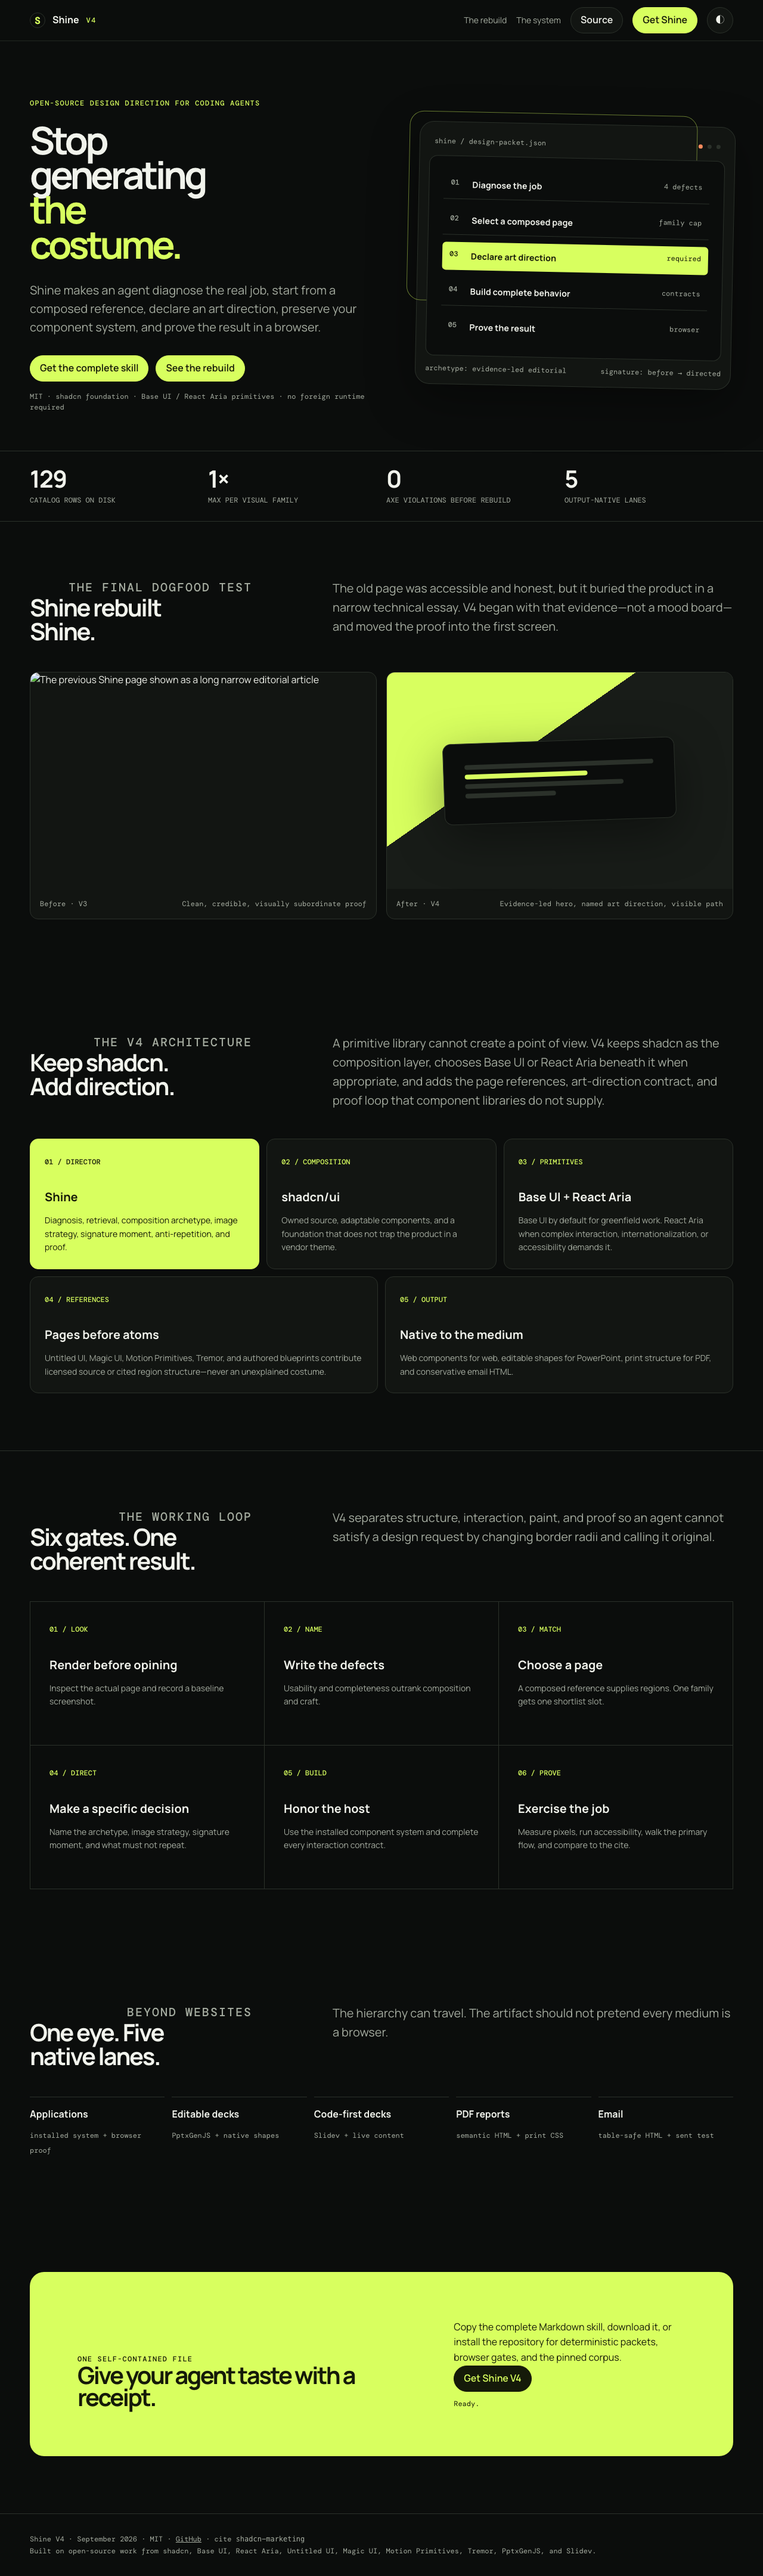
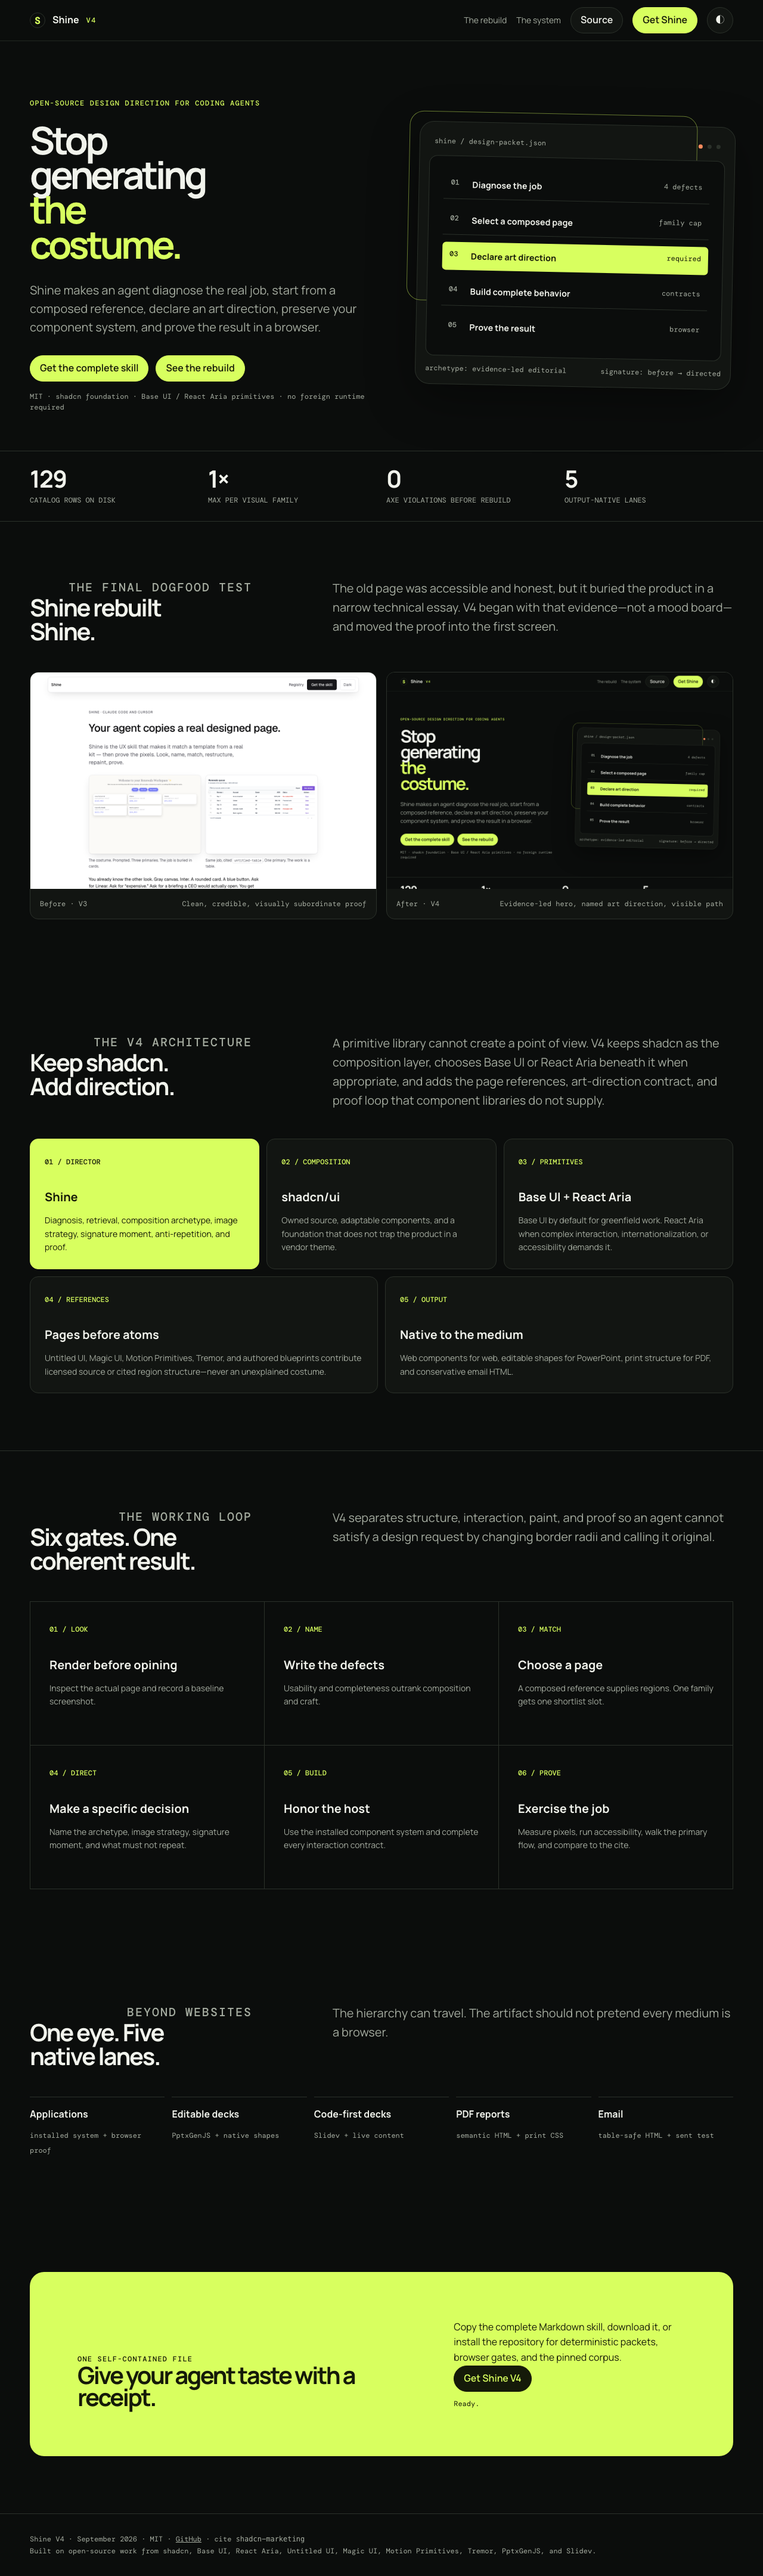
Replace placeholder rebuild proof with matched screenshots

Changed region(s): [[0.0312, 0.2499, 0.9375, 0.3437]]

diff --git a/site/index.html b/site/index.html
@@ -18,13 +18,13 @@
 .hero{padding:clamp(72px,10vw,140px) 0 var(--s8)}.hero-grid{display:grid;grid-template-columns:minmax(0,1.05fr) minmax(380px,.95fr);gap:clamp(36px,7vw,90px);align-items:center}.eyebrow,.label{font:500 .75rem/1.4 var(--mono);letter-spacing:.1em;text-transform:uppercase;color:var(--acid)}h1,h2,h3,p{margin-top:0}h1{font-size:clamp(3.2rem,7.8vw,7.4rem);line-height:.91;letter-spacing:-.075em;margin:.3em 0 .32em;max-width:8ch}h1 em{font-style:normal;color:var(--acid)}.lede{font-size:clamp(1.08rem,1.7vw,1.35rem);line-height:1.55;color:var(--muted);max-width:38rem}.actions{display:flex;gap:var(--s3);flex-wrap:wrap;margin-top:var(--s6)}.micro{margin-top:var(--s4);font:400 .75rem/1.5 var(--mono);color:var(--muted)}
 .director{position:relative;background:var(--surface);border:1px solid var(--line);border-radius:var(--r3);padding:var(--s4);box-shadow:var(--shadow);transform:rotate(1.2deg)}.director:before{content:"";position:absolute;inset:-18px 12% auto -18px;height:72%;border:1px solid var(--acid);border-radius:var(--r3);z-index:-1;opacity:.45}.windowbar{display:flex;justify-content:space-between;align-items:center;padding:var(--s2) var(--s2) var(--s4);font:400 .7rem var(--mono);color:var(--muted)}.signal{display:flex;gap:6px}.signal i{width:7px;height:7px;border-radius:50%;background:var(--line)}.signal i:first-child{background:var(--warm)}.stage{background:var(--bg);border:1px solid var(--line);border-radius:var(--r2);padding:var(--s5);display:grid;gap:var(--s3)}.stage-row{display:grid;grid-template-columns:24px 1fr auto;gap:var(--s3);align-items:start;padding:var(--s3);border-bottom:1px solid var(--line)}.stage-row:last-child{border-bottom:0}.stage-row b{font:500 .68rem var(--mono);color:var(--muted)}.stage-row strong{font-size:.9rem}.stage-row span{font:400 .7rem var(--mono);color:var(--muted)}.stage-row.active{background:var(--acid);color:var(--acid-ink);border-radius:var(--r1);border:0}.stage-row.active b,.stage-row.active span{color:var(--acid-ink)}.directive{margin-top:var(--s3);display:flex;justify-content:space-between;gap:var(--s4);font:400 .68rem/1.6 var(--mono);color:var(--muted)}
 .proof-band{border-block:1px solid var(--line);padding:var(--s5) 0}.proof-grid{display:grid;grid-template-columns:repeat(4,1fr);gap:var(--s4)}.metric strong{display:block;font-size:clamp(1.6rem,3vw,2.5rem);line-height:1.1;letter-spacing:-.04em}.metric span{font:400 .7rem/1.4 var(--mono);color:var(--muted);text-transform:uppercase}
-.section{padding:var(--s9) 0}.section-head{display:grid;grid-template-columns:.65fr 1.35fr;gap:var(--s6);margin-bottom:var(--s7)}.section-head h2{font-size:clamp(2.2rem,5vw,4.5rem);line-height:1;letter-spacing:-.055em;max-width:11ch}.section-head p{font-size:1.1rem;color:var(--muted);max-width:42rem;justify-self:end}.compare{display:grid;grid-template-columns:1fr 1fr;gap:var(--s4)}.shot{margin:0;border:1px solid var(--line);background:var(--surface);border-radius:var(--r2);overflow:hidden}.shot img{width:100%;aspect-ratio:16/10;object-fit:cover;object-position:top}.shot figcaption{display:flex;justify-content:space-between;gap:var(--s4);padding:var(--s4);font:400 .72rem/1.5 var(--mono);color:var(--muted)}.after-visual{aspect-ratio:16/10;padding:7%;background:linear-gradient(145deg,var(--acid) 0 38%,var(--surface-2) 38%);display:grid;place-items:center}.after-card{width:78%;background:var(--bg);border:1px solid var(--line);border-radius:var(--r2);padding:7%;box-shadow:var(--shadow);transform:rotate(-2deg)}.after-card .line{height:8px;background:var(--line);margin-bottom:10px;border-radius:10px}.after-card .line:nth-child(2){width:65%;background:var(--acid)}.after-card .line:nth-child(3){width:84%}.after-card .line:nth-child(4){width:48%}
+.section{padding:var(--s9) 0}.section-head{display:grid;grid-template-columns:.65fr 1.35fr;gap:var(--s6);margin-bottom:var(--s7)}.section-head h2{font-size:clamp(2.2rem,5vw,4.5rem);line-height:1;letter-spacing:-.055em;max-width:11ch}.section-head p{font-size:1.1rem;color:var(--muted);max-width:42rem;justify-self:end}.compare{display:grid;grid-template-columns:1fr 1fr;gap:var(--s4)}.shot{margin:0;border:1px solid var(--line);background:var(--surface);border-radius:var(--r2);overflow:hidden}.shot img{width:100%;height:auto;aspect-ratio:16/10;object-fit:cover;object-position:top}.shot figcaption{display:flex;justify-content:space-between;gap:var(--s4);padding:var(--s4);font:400 .72rem/1.5 var(--mono);color:var(--muted)}
 .architecture{display:grid;grid-template-columns:repeat(12,1fr);gap:var(--s3)}.layer{grid-column:span 4;border:1px solid var(--line);border-radius:var(--r2);padding:var(--s5);min-height:190px;background:var(--surface)}.layer:nth-child(4),.layer:nth-child(5){grid-column:span 6}.layer .num{font:500 .7rem var(--mono);color:var(--acid)}.layer h3{font-size:1.2rem;margin:var(--s5) 0 var(--s2)}.layer p{color:var(--muted);font-size:.9rem}.layer.acid{background:var(--acid);color:var(--acid-ink);border-color:var(--acid)}.layer.acid .num,.layer.acid p{color:var(--acid-ink)}
 .loop{border-top:1px solid var(--line)}.steps{display:grid;grid-template-columns:repeat(3,1fr);gap:1px;background:var(--line);border:1px solid var(--line)}.step{background:var(--bg);padding:var(--s6);min-height:240px}.step span{font:500 .7rem var(--mono);color:var(--acid)}.step h3{font-size:1.35rem;margin:var(--s6) 0 var(--s3)}.step p{color:var(--muted);font-size:.92rem}
 .lanes{display:grid;grid-template-columns:repeat(5,1fr);gap:var(--s3)}.lane{border-top:1px solid var(--line);padding-top:var(--s4)}.lane b{display:block;margin-bottom:var(--s2)}.lane span{font:400 .72rem/1.5 var(--mono);color:var(--muted)}
 .close{padding:var(--s9) 0}.close-box{background:var(--acid);color:var(--acid-ink);border-radius:var(--r3);padding:clamp(32px,7vw,80px);display:grid;grid-template-columns:1.2fr .8fr;gap:var(--s7);align-items:end}.close h2{font-size:clamp(2.8rem,6vw,6rem);line-height:.92;letter-spacing:-.065em;margin:0}.close p{max-width:34rem}.close .button{background:var(--acid-ink);color:var(--acid);border-color:var(--acid-ink)}.status{font:400 .72rem var(--mono);min-height:1.2em;margin-top:var(--s3)}footer{border-top:1px solid var(--line);padding:var(--s6) 0;color:var(--muted);font:400 .72rem/1.7 var(--mono)}
 .button{padding-inline:var(--s4)}.hero{padding-block:var(--s9) var(--s8)}.hero-grid{gap:var(--s8)}h1{font-size:4rem;margin:var(--s5) 0 var(--s6)}.section-head h2,.close h2{font-size:2.5rem}.metric strong{font-size:2.5rem}.lede,.section-head p{font-size:1.25rem}.layer h3,.step h3{font-size:1.25rem}.layer p,.step p{font-size:.875rem}.windowbar,.stage-row b,.stage-row span,.directive,.shot figcaption,.metric span,.layer .num,.step span,.lane span,.status,footer{font-size:.75rem}.sr-only{position:absolute;width:1px;height:1px;padding:0;margin:-1px;overflow:hidden;clip:rect(0,0,0,0);white-space:nowrap;border:0}
-.signal{gap:var(--s2)}.after-card .line{margin-bottom:var(--s2)}h1,h2,h3,p{margin-block:0}h1{margin:var(--s5) 0 var(--s6)}.layer h3,.step h3{margin:var(--s6) 0 var(--s3)}
+.signal{gap:var(--s2)}h1,h2,h3,p{margin-block:0}h1{margin:var(--s5) 0 var(--s6)}.layer h3,.step h3{margin:var(--s6) 0 var(--s3)}
 @media(max-width:800px){.nav-links>a:not(.button){display:none}.hero-grid,.section-head,.close-box{grid-template-columns:1fr}.director{transform:none}.proof-grid{grid-template-columns:1fr 1fr}.compare{grid-template-columns:1fr}.layer,.layer:nth-child(4),.layer:nth-child(5){grid-column:span 12}.steps{grid-template-columns:1fr}.lanes{grid-template-columns:1fr 1fr}.section-head p{justify-self:start}}
 @media(max-width:480px){.wrap{width:min(100% - 24px,1180px)}h1{font-size:3.5rem}.proof-grid,.lanes{grid-template-columns:1fr}.nav-links .secondary{display:none}.hero{padding-top:64px}}
 @media(prefers-reduced-motion:reduce){html{scroll-behavior:auto}*{transition:none!important}}
@@ -36,7 +36,7 @@
 <main id="main">
 <section class="hero"><div class="wrap hero-grid"><div><p class="eyebrow">Open-source design direction for coding agents</p><h1>Stop generating <em>the costume.</em></h1><p class="lede">Shine makes an agent diagnose the real job, start from a composed reference, declare an art direction, preserve your component system, and prove the result in a browser.</p><div class="actions"><a class="button primary" href="/skill">Get the complete skill</a><button class="button secondary" id="show-proof" data-testid="show-proof" type="button">See the rebuild</button></div><p class="micro">MIT · shadcn foundation · Base UI / React Aria primitives · no foreign runtime required</p></div><div class="director" aria-label="Shine director packet"><div class="windowbar"><span>shine / design-packet.json</span><span class="signal"><i></i><i></i><i></i></span></div><div class="stage"><div class="stage-row"><b>01</b><strong>Diagnose the job</strong><span>4 defects</span></div><div class="stage-row"><b>02</b><strong>Select a composed page</strong><span>family cap</span></div><div class="stage-row active"><b>03</b><strong>Declare art direction</strong><span>required</span></div><div class="stage-row"><b>04</b><strong>Build complete behavior</strong><span>contracts</span></div><div class="stage-row"><b>05</b><strong>Prove the result</strong><span>browser</span></div></div><div class="directive"><span>archetype: evidence-led editorial</span><span>signature: before → directed</span></div></div></div></section>
 <section class="proof-band"><div class="wrap proof-grid"><div class="metric"><strong>129</strong><span>catalog rows on disk</span></div><div class="metric"><strong>1×</strong><span>max per visual family</span></div><div class="metric"><strong>0</strong><span>axe violations before rebuild</span></div><div class="metric"><strong>5</strong><span>output-native lanes</span></div></div></section>
-<section class="section" id="rebuild" data-task-result hidden><div class="wrap"><div class="section-head"><div><p class="eyebrow">The final dogfood test</p><h2>Shine rebuilt Shine.</h2></div><p>The old page was accessible and honest, but it buried the product in a narrow technical essay. V4 began with that evidence—not a mood board—and moved the proof into the first screen.</p></div><div class="compare"><figure class="shot"><img src="/img/shine-v3-before.png" alt="The previous Shine page shown as a long narrow editorial article"><figcaption><span>Before · V3</span><span>Clean, credible, visually subordinate proof</span></figcaption></figure><figure class="shot"><div class="after-visual" role="img" aria-label="Abstracted V4 composition with a large acid field and a focused product proof card"><div class="after-card"><div class="line"></div><div class="line"></div><div class="line"></div><div class="line"></div></div></div><figcaption><span>After · V4</span><span>Evidence-led hero, named art direction, visible path</span></figcaption></figure></div></div></section>
+<section class="section" id="rebuild" data-task-result hidden><div class="wrap"><div class="section-head"><div><p class="eyebrow">The final dogfood test</p><h2>Shine rebuilt Shine.</h2></div><p>The old page was accessible and honest, but it buried the product in a narrow technical essay. V4 began with that evidence—not a mood board—and moved the proof into the first screen.</p></div><div class="compare" data-testid="rebuild-comparison"><figure class="shot"><img src="/img/shine-v3-before-fold.png" alt="Shine V3 first fold with a narrow white editorial layout and product examples beneath the hero" width="1280" height="800"><figcaption><span>Before · V3</span><span>Clean, credible, visually subordinate proof</span></figcaption></figure><figure class="shot"><img src="/img/shine-v4-after-fold.png" alt="Shine V4 first fold with a dark evidence-led hero, visible design packet, and primary actions" width="1280" height="800"><figcaption><span>After · V4</span><span>Evidence-led hero, named art direction, visible path</span></figcaption></figure></div></div></section>
 <section class="section" id="system"><div class="wrap"><div class="section-head"><div><p class="eyebrow">The V4 architecture</p><h2>Keep shadcn. Add direction.</h2></div><p>A primitive library cannot create a point of view. V4 keeps shadcn as the composition layer, chooses Base UI or React Aria beneath it when appropriate, and adds the page references, art-direction contract, and proof loop that component libraries do not supply.</p></div><div class="architecture"><article class="layer acid"><span class="num">01 / DIRECTOR</span><h3>Shine</h3><p>Diagnosis, retrieval, composition archetype, image strategy, signature moment, anti-repetition, and proof.</p></article><article class="layer"><span class="num">02 / COMPOSITION</span><h3>shadcn/ui</h3><p>Owned source, adaptable components, and a foundation that does not trap the product in a vendor theme.</p></article><article class="layer"><span class="num">03 / PRIMITIVES</span><h3>Base UI + React Aria</h3><p>Base UI by default for greenfield work. React Aria when complex interaction, internationalization, or accessibility demands it.</p></article><article class="layer"><span class="num">04 / REFERENCES</span><h3>Pages before atoms</h3><p>Untitled UI, Magic UI, Motion Primitives, Tremor, and authored blueprints contribute licensed source or cited region structure—never an unexplained costume.</p></article><article class="layer"><span class="num">05 / OUTPUT</span><h3>Native to the medium</h3><p>Web components for web, editable shapes for PowerPoint, print structure for PDF, and conservative email HTML.</p></article></div></div></section>
 <section class="section loop"><div class="wrap"><div class="section-head"><div><p class="eyebrow">The working loop</p><h2>Six gates. One coherent result.</h2></div><p>V4 separates structure, interaction, paint, and proof so an agent cannot satisfy a design request by changing border radii and calling it original.</p></div><div class="steps"><article class="step"><span>01 / LOOK</span><h3>Render before opining</h3><p>Inspect the actual page and record a baseline screenshot.</p></article><article class="step"><span>02 / NAME</span><h3>Write the defects</h3><p>Usability and completeness outrank composition and craft.</p></article><article class="step"><span>03 / MATCH</span><h3>Choose a page</h3><p>A composed reference supplies regions. One family gets one shortlist slot.</p></article><article class="step"><span>04 / DIRECT</span><h3>Make a specific decision</h3><p>Name the archetype, image strategy, signature moment, and what must not repeat.</p></article><article class="step"><span>05 / BUILD</span><h3>Honor the host</h3><p>Use the installed component system and complete every interaction contract.</p></article><article class="step"><span>06 / PROVE</span><h3>Exercise the job</h3><p>Measure pixels, run accessibility, walk the primary flow, and compare to the cite.</p></article></div></div></section>
 <section class="section"><div class="wrap"><div class="section-head"><div><p class="eyebrow">Beyond websites</p><h2>One eye. Five native lanes.</h2></div><p>The hierarchy can travel. The artifact should not pretend every medium is a browser.</p></div><div class="lanes"><div class="lane"><b>Applications</b><span>installed system + browser proof</span></div><div class="lane"><b>Editable decks</b><span>PptxGenJS + native shapes</span></div><div class="lane"><b>Code-first decks</b><span>Slidev + live content</span></div><div class="lane"><b>PDF reports</b><span>semantic HTML + print CSS</span></div><div class="lane"><b>Email</b><span>table-safe HTML + sent test</span></div></div></div></section>
